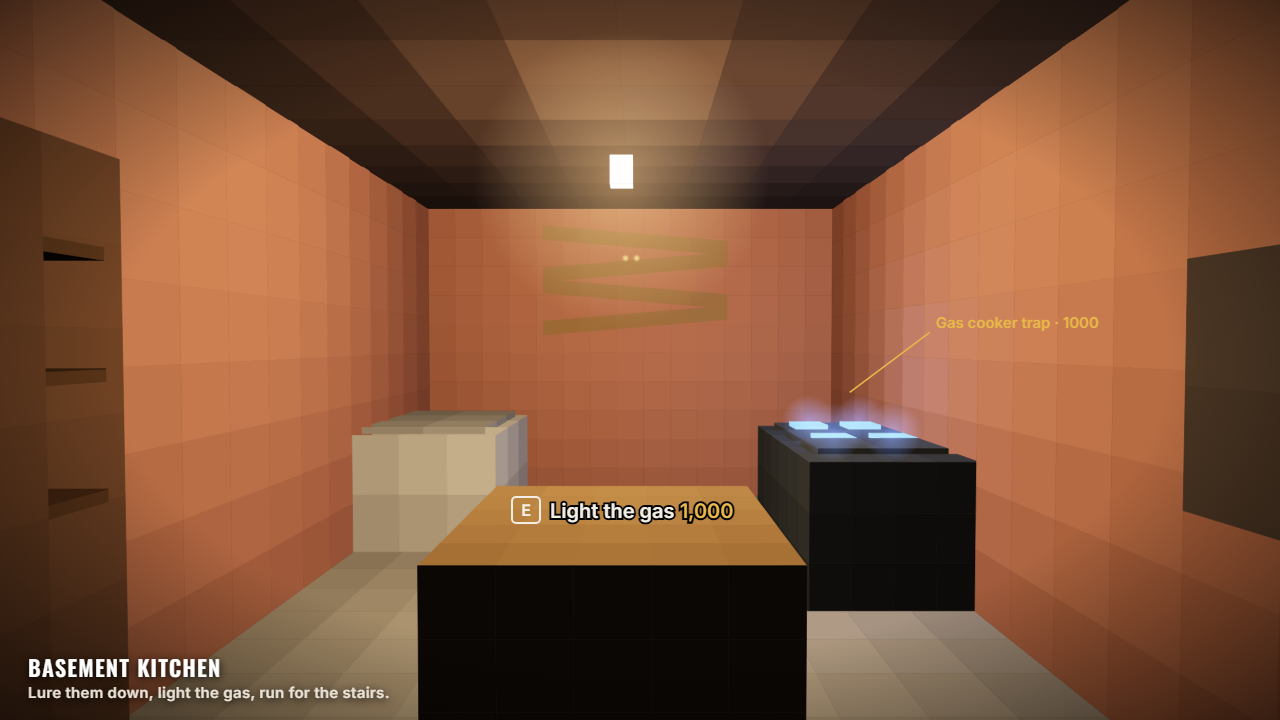
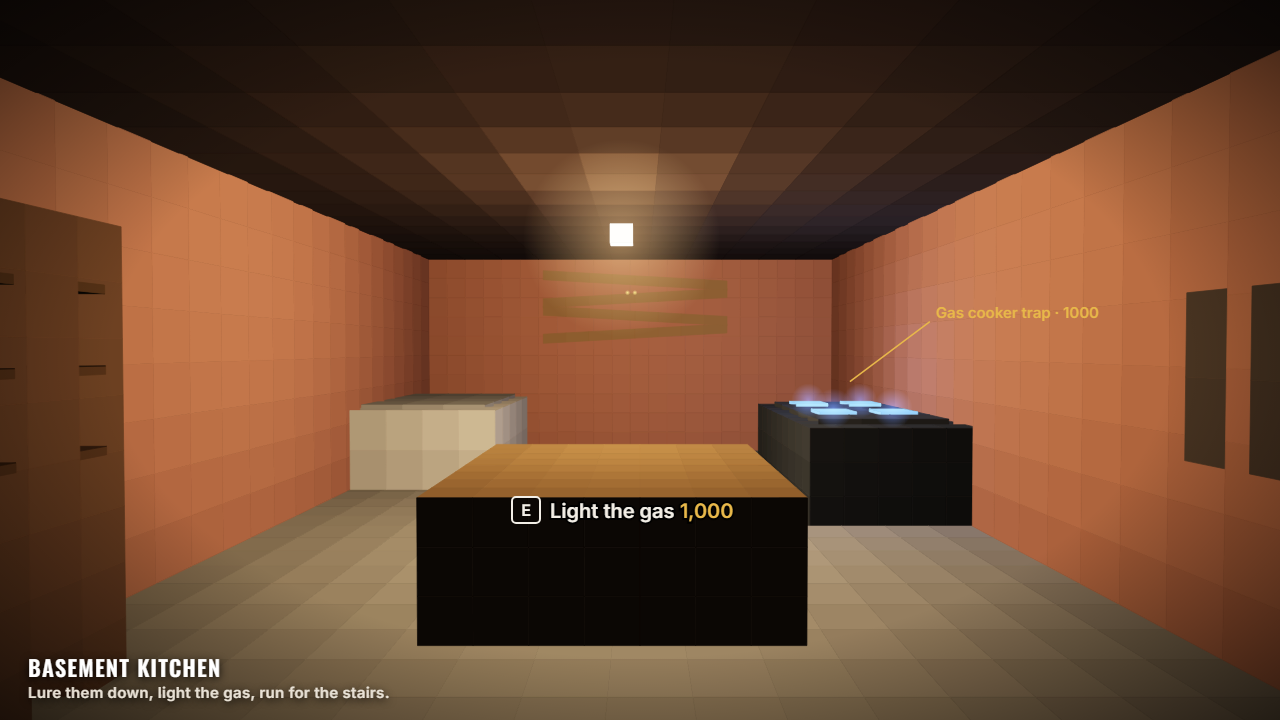
Townhouse renders at 1.5x room size (9 x 18 m per floor)
The renderer scales building geometry across and deep (not up); zombies,
players and the car keep real size, and only their positions scale.

diff --git a/design/townhouse.html b/design/townhouse.html
@@ -33,10 +33,15 @@ const norm = (a) => mul(a, 1 / (len(a) || 1));
 const lerp3 = (a, b, t) => add(a, mul(sub(b, a), t));
 const hex = (h) => [parseInt(h.slice(1, 3), 16) / 255, parseInt(h.slice(3, 5), 16) / 255, parseInt(h.slice(5, 7), 16) / 255];
 
+/** The Townhouse is drawn 1.5x the size of the first plans (9 x 18 m inside). People and props keep their size. */
+const SCALE = 1.5;
 function Scene(o = {}) {
-  return { quads: [], lights: [], glows: [], lines: [], ambient: o.ambient ?? [0.1, 0.1, 0.12], fog: o.fog ?? null, sky: o.sky ?? null, exposure: o.exposure ?? 1.5 };
+  return { quads: [], lights: [], glows: [], lines: [], ambient: o.ambient ?? [0.1, 0.1, 0.12], fog: o.fog ?? null, sky: o.sky ?? null, exposure: o.exposure ?? 1.5, s: o.s ?? SCALE, rawMode: false };
 }
-function quad(sc, p0, p1, p2, p3, color, o = {}) { sc.quads.push({ p: [p0, p1, p2, p3], c: hex(color), o }); }
+/** Building coordinates are scaled across and deep (not up); anything drawn inside withRaw is placed as given. */
+const xf = (sc, p) => (sc.rawMode ? p : V(p.x * sc.s, p.y, p.z * sc.s));
+function withRaw(sc, fn) { sc.rawMode = true; try { fn(); } finally { sc.rawMode = false; } }
+function quad(sc, p0, p1, p2, p3, color, o = {}) { sc.quads.push({ p: [p0, p1, p2, p3].map((p) => xf(sc, p)), c: hex(color), o }); }
 /** Axis box; corners are listed counter-clockwise seen from outside so back faces can be culled. */
 function box(sc, x0, y0, z0, x1, y1, z1, color, o = {}) {
   const c = (x, y, z) => V(x, y, z);
@@ -50,15 +55,16 @@ function box(sc, x0, y0, z0, x1, y1, z1, color, o = {}) {
   };
   for (const [k, f] of Object.entries(faces)) if (!(o.skip || []).includes(k)) quad(sc, ...f, o.colors?.[k] ?? color, o);
 }
-function light(sc, pos, color, intensity, range) { sc.lights.push({ pos, c: hex(color), i: intensity, r: range }); }
-function glow(sc, pos, color, radius, alpha = 0.7) { sc.glows.push({ pos, color, radius, alpha }); }
-function line3(sc, a, b, color, width = 1.5, alpha = 1) { sc.lines.push({ a, b, color, width, alpha }); }
+function light(sc, pos, color, intensity, range) { sc.lights.push({ pos: xf(sc, pos), c: hex(color), i: intensity, r: range * (sc.rawMode ? 1 : Math.sqrt(sc.s)) }); }
+function glow(sc, pos, color, radius, alpha = 0.7) { sc.glows.push({ pos: xf(sc, pos), color, radius, alpha }); }
+function line3(sc, a, b, color, width = 1.5, alpha = 1) { sc.lines.push({ a: xf(sc, a), b: xf(sc, b), color, width, alpha }); }
 
-function camera(eye, target, f, w, h) {
+function camera(eye0, target0, f, w, h, s = SCALE) {
+  const eye = V(eye0.x * s, eye0.y, eye0.z * s), target = V(target0.x * s, target0.y, target0.z * s);
   const fw = norm(sub(target, eye));
   const right = norm(cross(fw, V(0, 1, 0)));
   const up = cross(right, fw);
-  return { eye, fw, right, up, f, w, h };
+  return { eye, fw, right, up, f, w, h, s };
 }
 function project(cam, p) {
   const d = sub(p, cam.eye);
@@ -67,6 +73,8 @@ function project(cam, p) {
   return [cam.w / 2 + (cam.f * dot(d, cam.right)) / z, cam.h / 2 - (cam.f * dot(d, cam.up)) / z, z];
 }
 
+/** Project a building coordinate (unscaled), for labels and overlays drawn by the views. */
+function projectWorld(cam, p) { return project(cam, V(p.x * cam.s, p.y, p.z * cam.s)); }
 function shade(sc, n, c, base, emissive) {
   let r = sc.ambient[0], g = sc.ambient[1], b = sc.ambient[2];
   for (const l of sc.lights) {
@@ -134,7 +142,11 @@ const PAL = {
 };
 const SODIUM = '#ffa040', LAMP = '#ffc884', MOON = '#9fb4d8';
 
-function zombie(sc, x, y, z, s = 1, face = 0, lean = 0) {
+function zombie(sc, x0, y, z0, s = 1, face = 0, lean = 0) {
+  const x = x0 * sc.s, z = z0 * sc.s;
+  withRaw(sc, () => zombieBody(sc, x, y, z, s, face, lean));
+}
+function zombieBody(sc, x, y, z, s, face, lean) {
   const k = (v) => v * s;
   const r = (dx, dz) => { const c = Math.cos(face), sn = Math.sin(face); return [x + dx * c - dz * sn, z + dx * sn + dz * c]; };
   const part = (dx0, y0, dz0, dx1, y1, dz1, col) => {
@@ -151,7 +163,11 @@ function zombie(sc, x, y, z, s = 1, face = 0, lean = 0) {
   glow(sc, V(ex1, y + k(1.62), ez1), '#ffe060', 0.05 * s, 0.95);
   glow(sc, V(ex2, y + k(1.62), ez2), '#ffe060', 0.05 * s, 0.95);
 }
-function player(sc, x, y, z, s = 1, stripe = '#3a6ea5') {
+function player(sc, x0, y, z0, s = 1, stripe = '#3a6ea5') {
+  const x = x0 * sc.s, z = z0 * sc.s;
+  withRaw(sc, () => playerBody(sc, x, y, z, stripe));
+}
+function playerBody(sc, x, y, z, stripe) {
   box(sc, x - 0.2, y, z - 0.1, x - 0.03, y + 0.8, z + 0.1, '#22262e');
   box(sc, x + 0.03, y, z - 0.1, x + 0.2, y + 0.8, z + 0.1, '#22262e');
   box(sc, x - 0.25, y + 0.8, z - 0.15, x + 0.25, y + 1.42, z + 0.15, '#2e3440');
@@ -319,7 +335,7 @@ const views = {
     box(sc, 3.6, -2.2, 0.1, 5.2, -0.8, 0.14, '#ffb060', { emissive: 1.6 }); light(sc, V(4.4, -1, 1), '#ffb060', 1, 2);
     // Street lamps and a parked car.
     lampPost(sc, -3, 3.6); lampPost(sc, 9, 3.6); lampPost(sc, 21, 3.6);
-    box(sc, 7.5, 0.2, 5, 11.6, 1.1, 6.8, '#4a6a8a'); box(sc, 8.3, 1.1, 5.1, 10.6, 1.7, 6.7, '#1c2630'); box(sc, 8.4, 1.15, 5.08, 10.5, 1.65, 5.1, '#3a5a7a', { emissive: 0.3 });
+    withRaw(sc, () => { const cx = 9.55 * SCALE - 2.05, cz = 5.9 * SCALE - 0.9; box(sc, cx, 0.2, cz, cx + 4.1, 1.1, cz + 1.8, '#4a6a8a'); box(sc, cx + 0.8, 1.1, cz + 0.1, cx + 3.1, 1.7, cz + 1.7, '#1c2630'); box(sc, cx + 0.9, 1.15, cz + 0.08, cx + 3, 1.65, cz + 0.1, '#3a5a7a', { emissive: 0.3 }); });
     // Zombies: on the pavement, at the lightwell, climbing to the balcony.
     zombie(sc, -1.5, 0, 2.6, 1, -2.4); zombie(sc, 1.2, 0, 2.2, 1, Math.PI + 0.3, 0.3); zombie(sc, 4.3, -3, 0.9, 1, Math.PI);
     zombie(sc, 5.2, 1.6, 0.9, 1, Math.PI, 0.5); zombie(sc, 13, 0, 6.5, 1, -1.2); zombie(sc, -8, 0, 7, 1, 1.1);
@@ -339,7 +355,7 @@ const views = {
     const cam = camera(V(-3.5, 8, 14), V(3, 3.2, -6), 760, W, 900);
     let tags = '';
     for (const [name, rooms, y] of labels) {
-      const p = project(cam, V(6.6, y, 0.3));
+      const p = projectWorld(cam, V(6.6, y, 0.3));
       if (p) tags += `<g font-family="Inter" text-anchor="start"><text x="${p[0] + 12}" y="${p[1]}" fill="#f2eee6" font-family="Oswald" font-size="22" letter-spacing="1">${name.toUpperCase()}</text><text x="${p[0] + 12}" y="${p[1] + 20}" fill="#b8b0a4" font-size="14">${rooms}</text></g>`;
     }
     return render(sc, cam, tags + vignette(W, 900, 0.6)) + caption('The house, front wall removed', 'Five floors, one stair along the left wall. Each floor has its own colour so you always know where you are.');
@@ -372,7 +388,7 @@ const views = {
     light(sc, V(2.1, y + 2.4, -3.5), LAMP, 2.6, 4);
     box(sc, 2.04, y + 2.45, -3.56, 2.16, y + 2.6, -3.44, '#ffe6b0', { emissive: 4 }); glow(sc, V(2.1, y + 2.5, -3.5), LAMP, 0.8, 0.6);
     const cam = camera(V(2.2, 1.6, 0.3), V(2.2, 1.45, -6), 700, W, H);
-    const pr = (p) => project(cam, p);
+    const pr = (p) => projectWorld(cam, p);
     const a = pr(V(3.7, 1.25, -4.7));
     const tag = a ? `<g font-family="Inter"><line x1="${a[0]}" y1="${a[1]}" x2="${a[0] + 80}" y2="${a[1] - 60}" stroke="#e8b84a" stroke-width="1.5"/><text x="${a[0] + 86}" y="${a[1] - 64}" fill="#e8b84a" font-size="15" font-weight="600">Gas cooker trap · 1000</text></g>` : '';
     const prompt = `<g font-family="Inter" font-weight="600" font-size="20" fill="#f2eee6" style="paint-order:stroke" stroke="#000" stroke-width="4"><rect x="512" y="497" width="28" height="26" rx="4" fill="none" stroke="#f2eee6" stroke-width="2"/><text x="526" y="516" text-anchor="middle" font-size="16" stroke-width="0">E</text><text x="550" y="518">Light the gas <tspan fill="#e8b84a">1,000</tspan></text></g>`;
@@ -409,7 +425,7 @@ const views = {
     const cam = camera(V(1.6, 1.6, 0.2), V(2.4, 1.5, -6.5), 680, W, H);
     // Ripper chalk outline on the left wall.
     const pts = [[0, 0], [1, 0], [1, 0.12], [0.75, 0.12], [0.68, 0.36], [0.56, 0.36], [0.6, 0.12], [0.36, 0.12], [0.3, 0.24], [0.18, 0.24], [0.22, 0.12], [0, 0.12]];
-    const chalk = pts.map(([u, v]) => project(cam, V(0.01, y + 1.75 - v * 0.9, -3.4 - u * 1.4))).filter(Boolean).map((p) => `${p[0]},${p[1]}`).join(' ');
+    const chalk = pts.map(([u, v]) => projectWorld(cam, V(0.01, y + 1.75 - v * 0.9, -3.4 - u * 1.4))).filter(Boolean).map((p) => `${p[0]},${p[1]}`).join(' ');
     return render(sc, cam, `<polygon points="${chalk}" fill="none" stroke="#e8e2d0" stroke-width="2.5" stroke-opacity=".85"/>` + vignette(W, H)) + caption('1st floor drawing room', 'The biggest room in the house. Balcony doors to the street, the Ripper on the wall.');
   },
 
@@ -438,7 +454,7 @@ const views = {
     light(sc, V(1.4, y + 1.6, -1.4), LAMP, 0.9, 2.5);
     const cam = camera(V(3, 1.5, 0.3), V(3, 1.6, -6), 640, W, H);
     // Shaft of moonlight from the skylight.
-    const s = [V(2.4, y + 2.58, -4.6), V(3.6, y + 2.58, -4.6), V(3.9, y, -3.8), V(2.1, y, -3.8)].map((p) => project(cam, p));
+    const s = [V(2.4, y + 2.58, -4.6), V(3.6, y + 2.58, -4.6), V(3.9, y, -3.8), V(2.1, y, -3.8)].map((p) => projectWorld(cam, p));
     const shaft = s.every(Boolean) ? `<polygon points="${s.map((p) => `${p[0]},${p[1]}`).join(' ')}" fill="#9fb4d8" fill-opacity="0.12"/>` : '';
     return render(sc, cam, shaft + vignette(W, H, 0.85)) + caption('The loft', 'Low, dark, and the only room with a way in from above: listen for footsteps on the slates.');
   },
@@ -447,7 +463,7 @@ const views = {
     // Furnished top-down plans with light pools: 2D, drawn directly.
     const C = 34, X = (i) => 40 + i * 248, Y0 = 110;
     let s = `<svg xmlns="http://www.w3.org/2000/svg" width="${W}" height="620" viewBox="0 0 ${W} 620"><defs><radialGradient id="pool"><stop offset="0" stop-color="#ffc884" stop-opacity=".55"/><stop offset="1" stop-color="#ffc884" stop-opacity="0"/></radialGradient><radialGradient id="cold"><stop offset="0" stop-color="#9fb4d8" stop-opacity=".35"/><stop offset="1" stop-color="#9fb4d8" stop-opacity="0"/></radialGradient><pattern id="steps" width="8" height="8" patternUnits="userSpaceOnUse"><rect width="8" height="8" fill="#5a3c26"/><line x1="0" y1="7" x2="8" y2="7" stroke="#2a1a10" stroke-width="2"/></pattern></defs><rect width="${W}" height="620" fill="#0e1014"/>`;
-    s += `<text x="40" y="50" fill="#f2eee6" font-family="Oswald" font-size="30" letter-spacing="2">THE TOWNHOUSE · FLOOR PLANS</text><text x="40" y="76" fill="#9a9389" font-family="Inter" font-size="15">Street at the top of each plan. 1 square = 1 m. Warm pools are lamps; blue is moonlight through windows.</text>`;
+    s += `<text x="40" y="50" fill="#f2eee6" font-family="Oswald" font-size="30" letter-spacing="2">THE TOWNHOUSE · FLOOR PLANS</text><text x="40" y="76" fill="#9a9389" font-family="Inter" font-size="15">Street at the top of each plan. Each floor is 9 &#215; 18 m inside. Warm pools are lamps; blue is moonlight through windows.</text>`;
     const floors = [
       { name: 'Basement · 750', col: PAL.basement, rooms: [[1, 1, 2, 4, 'Vault'], [3, 1, 6, 6, 'Kitchen'], [3, 7, 5, 12, 'Scullery'], [1, 9, 2, 12, 'Store']], up: [1, 5, 2, 8], back: [6, 7, 6, 12],
         furn: [[5.2, 1.2, 0.7, 1.2, '#20242a'], [3.6, 3, 1.4, 1.6, '#6b4a2b'], [3.1, 0.2, 1.3, 0.6, '#d8d4cc'], [4.4, 9, 1, 1, '#4a4a48'], [3.3, 10.6, 0.9, 0.6, '#e8b84a']], lamps: [[4.5, 3], [4, 9.5]], tags: [[4.5, 5.6, 'gas trap'], [1.5, 3.4, 'power'], [4, 11.7, 'box, shotgun']] },
